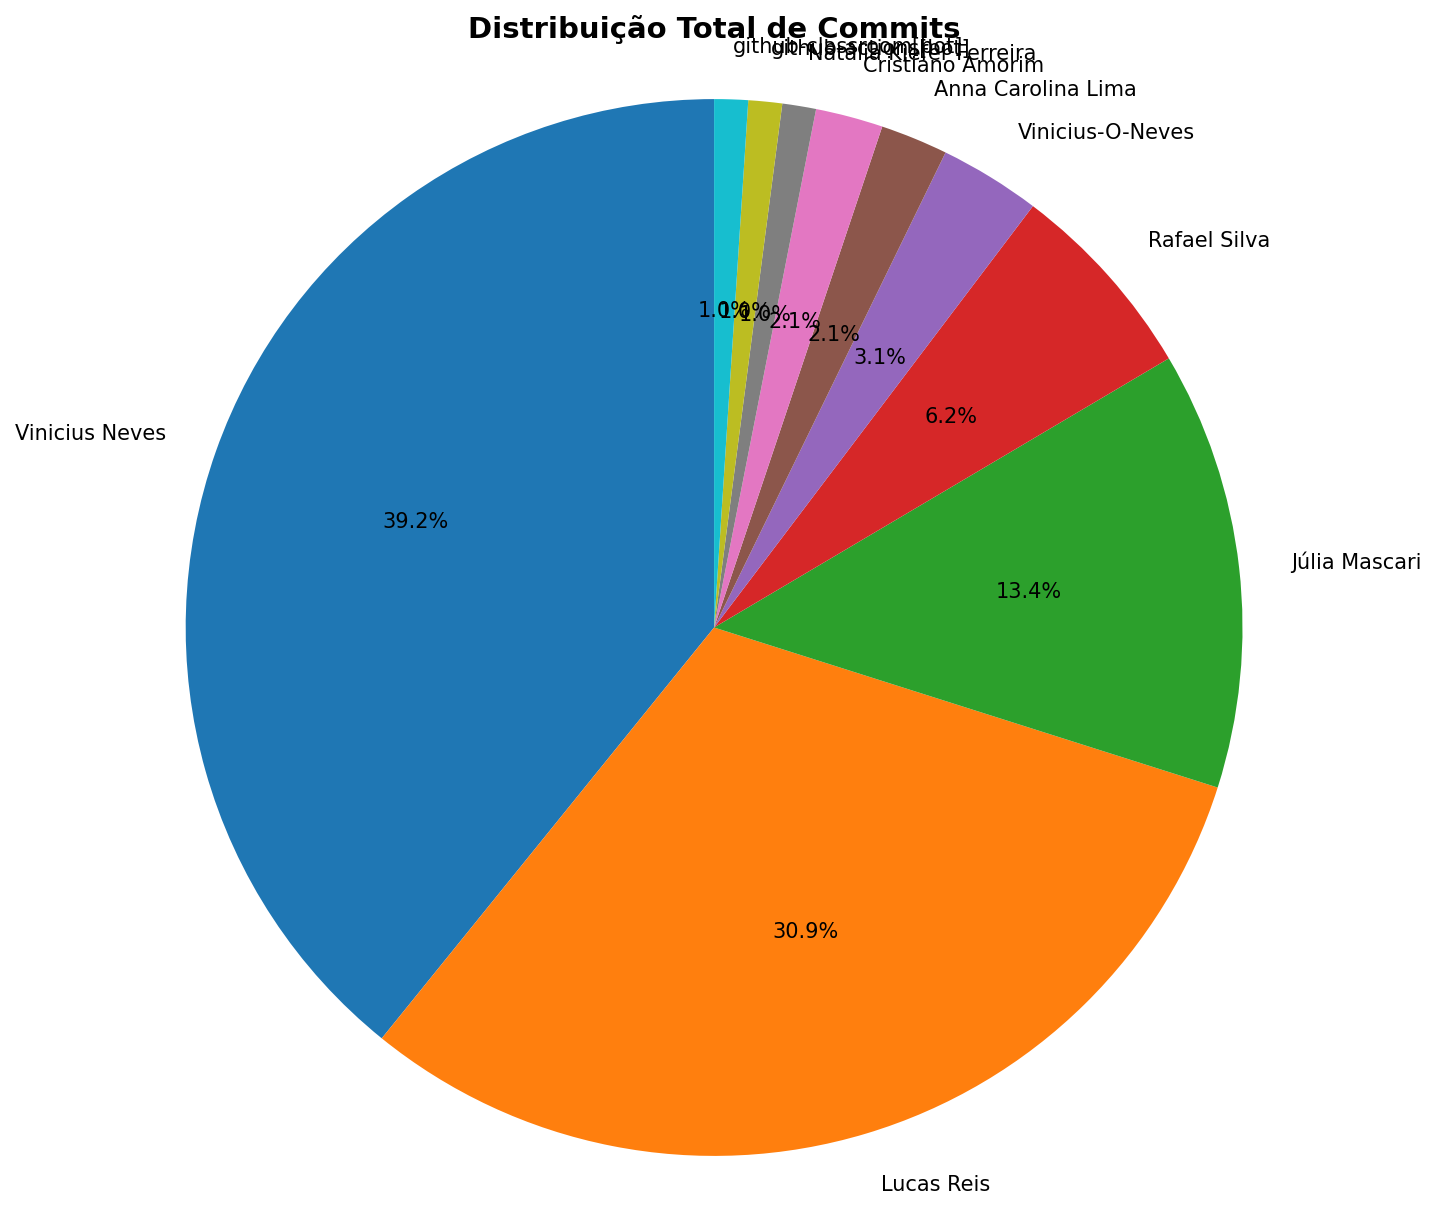
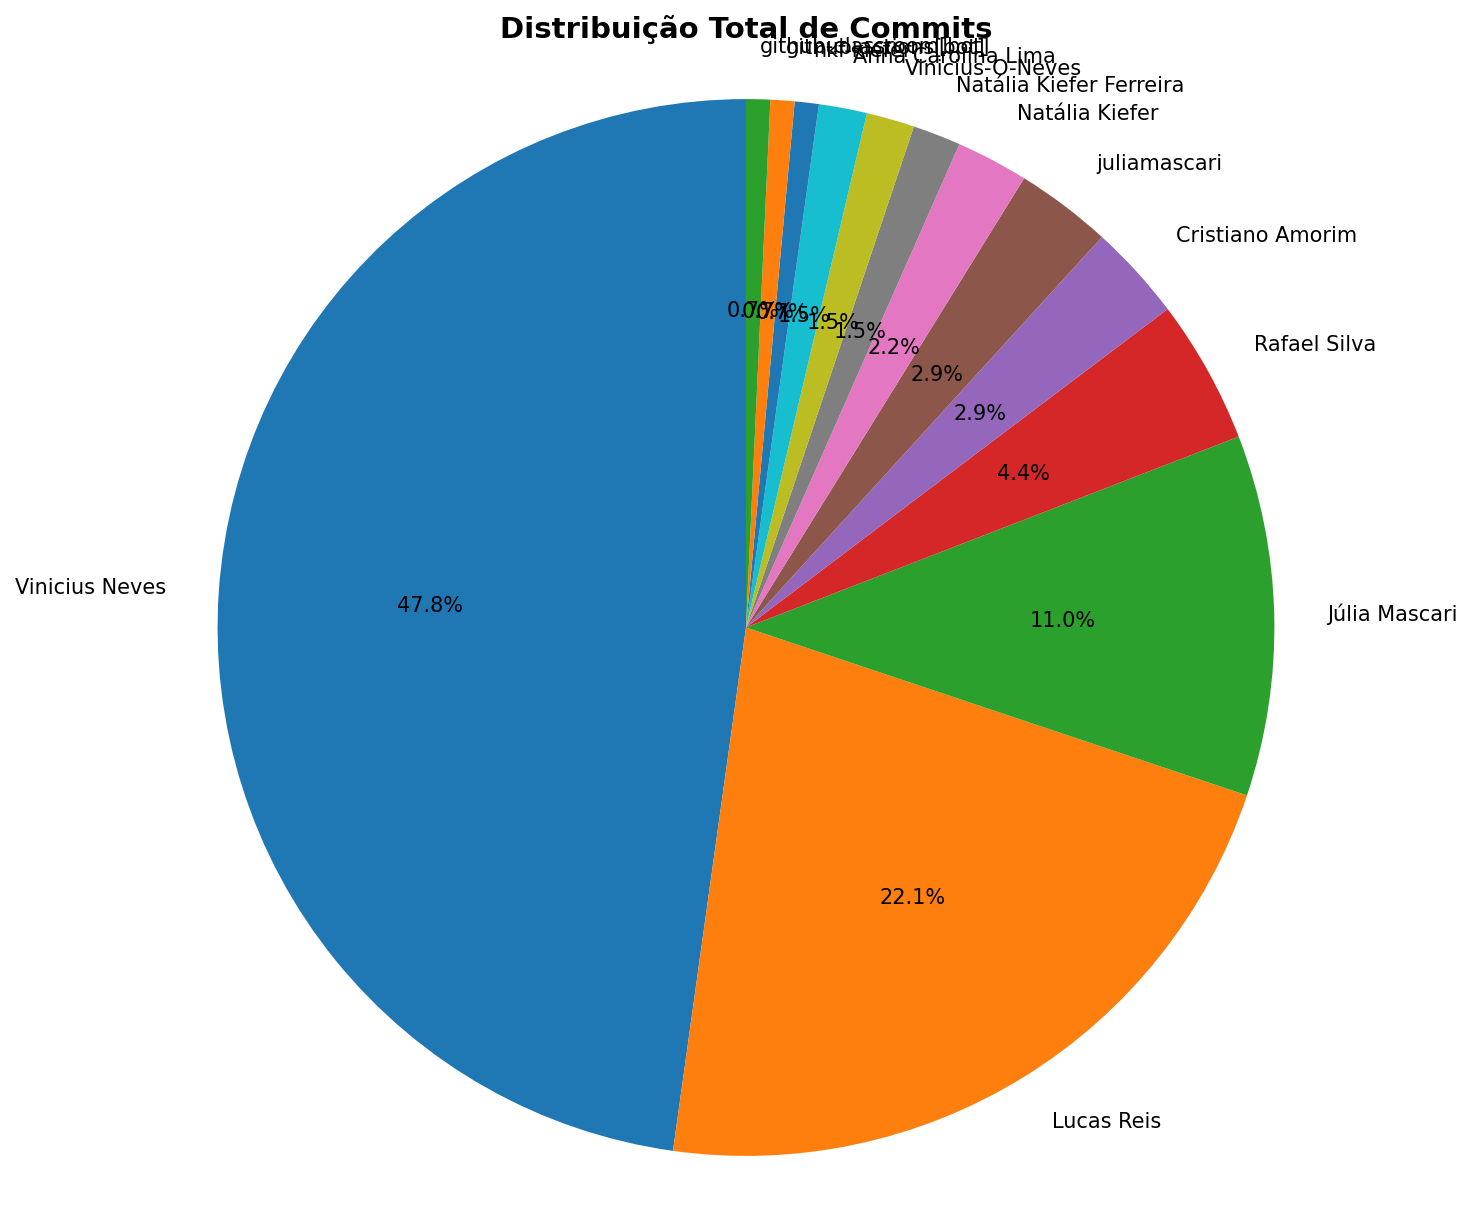
📊 docs: atualizar relatório de contribuições

diff --git a/docs/CONTRIBUTION_REPORT.md b/docs/CONTRIBUTION_REPORT.md
@@ -1,6 +1,6 @@
 # 📊 Relatório de Contribuições do Projeto
 
-**Última atualização:** 17/03/2026 20:04
+**Última atualização:** 07/04/2026 21:52
 
 ---
 
@@ -9,20 +9,29 @@
 | Aluno                   |   Commits |   Linhas+ |   Linhas- |   Arquivos |   Docs Commits |   Docs Arquivos |
 |-------------------------|-----------|-----------|-----------|------------|----------------|-----------------|
 | Anna Carolina Lima      |         2 |        13 |        10 |          2 |              2 |               2 |
-| Cristiano Amorim        |         2 |        17 |         9 |          2 |              1 |               2 |
-| Júlia Mascari           |        13 |       116 |        31 |          3 |             11 |               3 |
+| Cristiano Amorim        |         4 |        23 |        15 |          6 |              1 |               2 |
+| Júlia Mascari           |        15 |       116 |        31 |          3 |             11 |               3 |
 | Lucas Reis              |        30 |        48 |        48 |          4 |             23 |               3 |
-| Natália Kiefer Ferreira |         1 |        19 |        19 |          1 |              1 |               1 |
+| Natália Kiefer          |         3 |       848 |       250 |         17 |              0 |               0 |
+| Natália Kiefer Ferreira |         2 |        19 |        19 |          1 |              1 |               1 |
 | Rafael Silva            |         6 |        24 |        36 |          3 |              6 |               3 |
-| Vinicius Neves          |        38 |   1290971 |   1284698 |       5660 |             19 |               5 |
-| Vinicius-O-Neves        |         3 |        15 |         8 |          4 |              2 |               1 |
+| Vinicius Neves          |        65 |   1298361 |   1287416 |       5668 |             26 |               6 |
+| Vinicius-O-Neves        |         2 |        11 |         4 |          4 |              1 |               1 |
 | github-actions[bot]     |         1 |        28 |        31 |          3 |              1 |               1 |
 | github-classroom[bot]   |         1 |      2152 |         0 |         45 |              1 |              13 |
+| juliamascari            |         4 |       298 |       101 |         15 |              1 |               1 |
+| nkf-kiefer              |         1 |        16 |        15 |          3 |              1 |               1 |
 
 
 ## 📅 Contribuições Semanais (Todo o Semestre)
 
-**2026-03-10**: Anna Carolina Lima: 1, Lucas Reis: 9, Natália Kiefer Ferreira: 1, Rafael Silva: 3, Vinicius Neves: 18, Vinicius-O-Neves: 3, github-actions[bot]: 1
+**2026-03-31**: Cristiano Amorim: 2, Júlia Mascari: 2, Natália Kiefer: 3, Natália Kiefer Ferreira: 1, Vinicius Neves: 17, juliamascari: 4
+
+**2026-03-24**: Vinicius Neves: 9
+
+**2026-03-17**: Vinicius Neves: 1
+
+**2026-03-10**: Anna Carolina Lima: 1, Lucas Reis: 9, Natália Kiefer Ferreira: 1, Rafael Silva: 3, Vinicius Neves: 18, Vinicius-O-Neves: 2, github-actions[bot]: 1, nkf-kiefer: 1
 
 **2026-03-03**: Anna Carolina Lima: 1, Cristiano Amorim: 2, Júlia Mascari: 9, Lucas Reis: 18, Rafael Silva: 3, Vinicius Neves: 19
 
